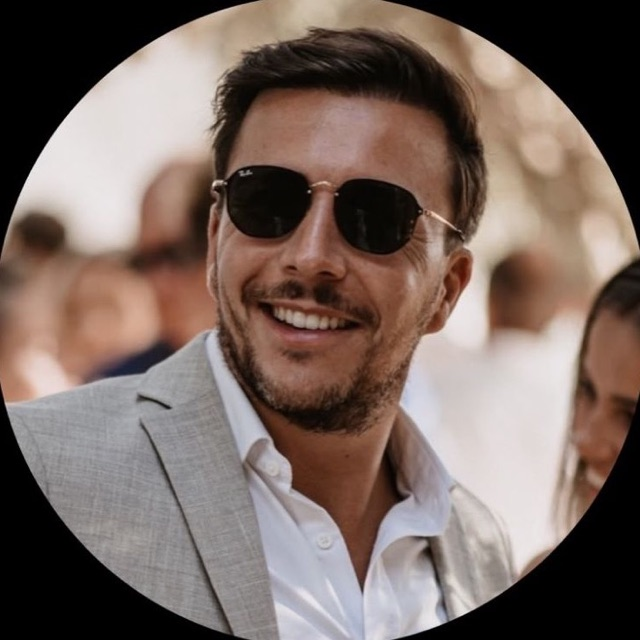
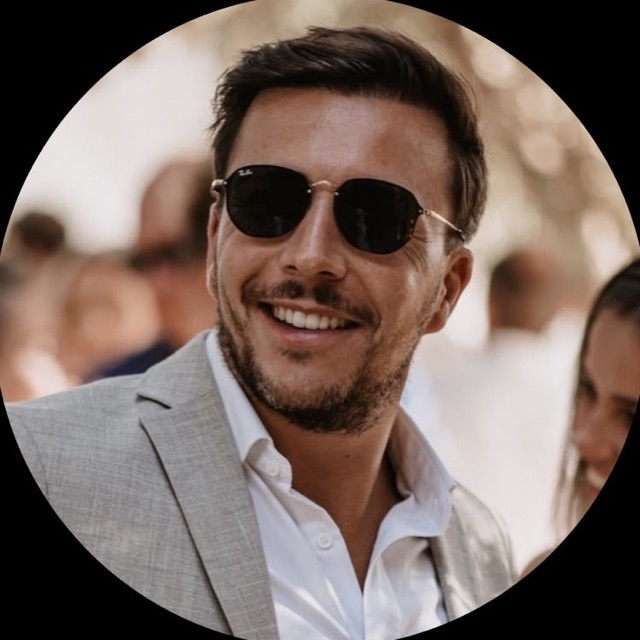
Speakers : photos de Vincent Joris, Lou-Anne Bertrand et Augustin Deper, celle de Guillaume Boulanger refaite ; SW ysc-v31

diff --git a/index.html b/index.html
@@ -116,6 +116,7 @@
       }, {
         "@type": "Person",
         "name": "Vincent Joris",
+        "image": "https://youthspeakcase.com/img/speakers/vincent-joris.jpg",
         "jobTitle": "Senior Director Business Strategy",
         "worksFor": {
           "@type": "Organization",
@@ -125,6 +126,7 @@
       }, {
         "@type": "Person",
         "name": "Lou-Anne Bertrand",
+        "image": "https://youthspeakcase.com/img/speakers/lou-anne-bertrand.jpg",
         "jobTitle": "Fondatrice",
         "worksFor": {
           "@type": "Organization",
@@ -134,6 +136,7 @@
       }, {
         "@type": "Person",
         "name": "Augustin Deper",
+        "image": "https://youthspeakcase.com/img/speakers/augustin-deper.jpg",
         "jobTitle": "Fondateur",
         "worksFor": {
           "@type": "Organization",
@@ -684,6 +687,7 @@ footer{background:var(--ink);color:#cfd6e2;padding:56px 0 30px}
       <div class="team-card">
         <div class="team-photo" style="background:var(--orange)">
           <span class="initials">VJ</span>
+          <img src="img/speakers/vincent-joris.jpg" alt="Vincent Joris" style="object-position:center center" onerror="this.style.display='none'">
         </div>
         <h3>Vincent Joris</h3>
         <span class="team-role" data-i18n="sp_vincent_r">Panéliste · Senior Director Business Strategy, WPP Media</span>
@@ -692,6 +696,7 @@ footer{background:var(--ink);color:#cfd6e2;padding:56px 0 30px}
       <div class="team-card">
         <div class="team-photo" style="background:var(--orange)">
           <span class="initials">LB</span>
+          <img src="img/speakers/lou-anne-bertrand.jpg" alt="Lou-Anne Bertrand" style="object-position:center center" onerror="this.style.display='none'">
         </div>
         <h3>Lou-Anne Bertrand</h3>
         <span class="team-role" data-i18n="sp_louanne_r">Fondatrice · Socialize</span>
@@ -700,6 +705,7 @@ footer{background:var(--ink);color:#cfd6e2;padding:56px 0 30px}
       <div class="team-card">
         <div class="team-photo" style="background:var(--orange)">
           <span class="initials">AD</span>
+          <img src="img/speakers/augustin-deper.jpg" alt="Augustin Deper" style="object-position:center center" onerror="this.style.display='none'">
         </div>
         <h3>Augustin Deper</h3>
         <span class="team-role" data-i18n="sp_augustin_r">Fondateur · Socialize</span>

diff --git a/sw.js b/sw.js
@@ -3,7 +3,7 @@
    Strategie : pages/CSS/JS/manifeste = reseau d'abord ; images = cache d'abord ;
    jamais la video ni l'audio ; jamais mettre en cache une reponse en erreur ;
    page hors ligne dediee (jamais un repli sur l'accueil en cache pour une autre URL). */
-const VERSION = 'ysc-v30';
+const VERSION = 'ysc-v31';
 const OFFLINE_URL = '/offline.html';
 
 async function precache() {

diff --git a/README.md b/README.md
@@ -62,6 +62,7 @@ gardent l'ancienne version.
 
 ## Journal des modifications
 
+- **2026-11-20, ysc-v31** : photos de Vincent Joris, Lou-Anne Bertrand et Augustin Deper (fichiers déposés et nommés par David, recadrés en carré), celle de Guillaume Boulanger refaite depuis un original un peu plus grand. Les sept speakers ont leur photo. Celle de Vincent Joris ne fait que 200 px de côté : à remplacer si une meilleure arrive. Originaux gardés dans `originaux-speakers/` (hors dépôt, hors site).
 - **2026-11-20, ysc-v30** : photo de Guillaume Boulanger remise (l'homme aux lunettes de soleil, confirmé par David : le retrait de la v29 venait d'un malentendu). Les trois autres nouveaux speakers restent aux initiales, fichiers attendus.
 - **2026-11-20, ysc-v29** : photo retirée de la carte de Guillaume Boulanger. La capture reçue avec son nom (homme aux lunettes de soleil) n'était pas la sienne, David l'a signalé. Carte aux initiales en attendant sa vraie photo. Les quatre nouveaux speakers sont donc tous aux initiales : les photos envoyées dans la conversation ne sont pas arrivées en fichiers.
 - **2026-11-20, ysc-v28** : quatrième speaker, **Guillaume Boulanger**, panéliste, CEO et fondateur d'EDN (carte, FR et EN, FAQ, JSON-LD, photo `img/speakers/guillaume-boulanger.jpg` recadrée de la capture envoyée par David). Chiffre « Mentors & speakers » à 4, grille des speakers en 4 colonnes sur ordinateur.
